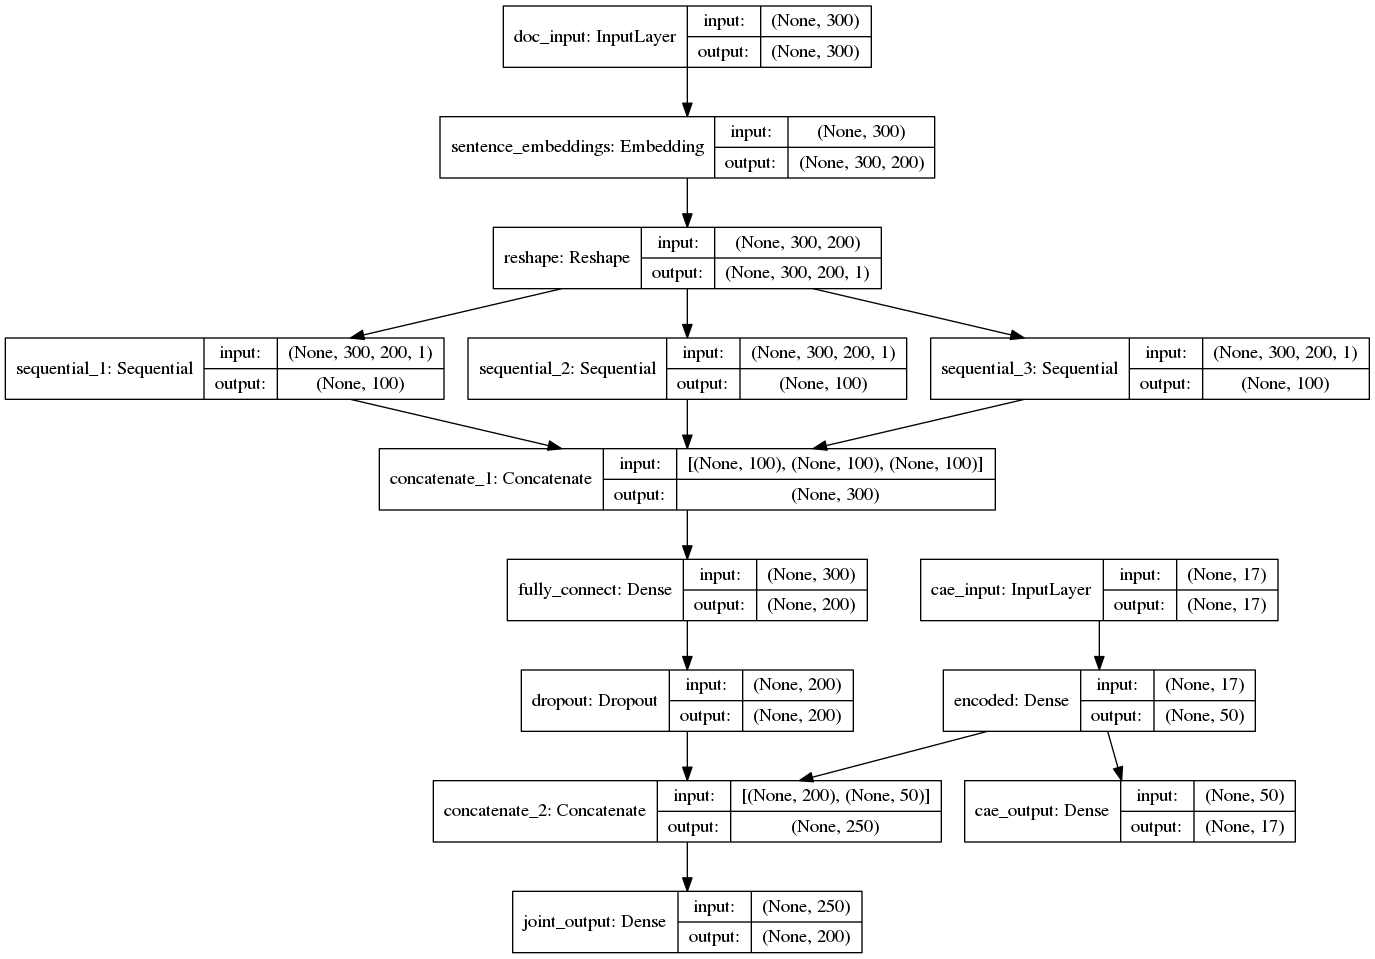
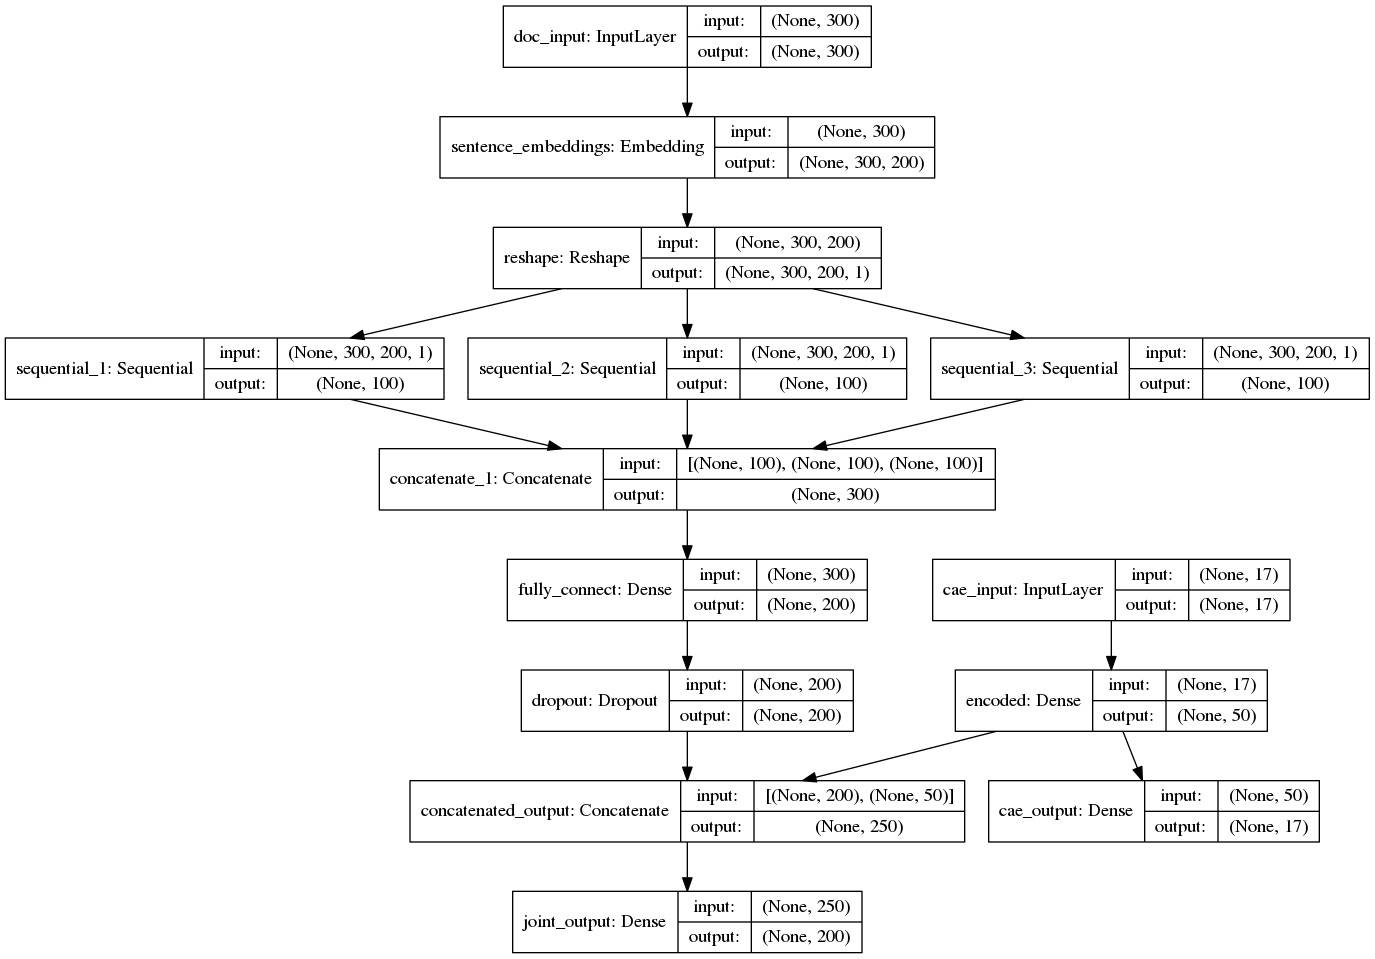
change CAE activation func

diff --git a/models.py b/models.py
@@ -47,9 +47,9 @@ def ConvCAEMF(res_dir,state_log_dir, train_user, train_item, valid_user, test_us
 
     pre_val_eval = 1e10
 
-    cnn_module = CNN_CAE_module(dimension, vocab_size, dropout_rate,
+    cnn_cae_module = CNN_CAE_module(dimension, vocab_size, dropout_rate,
                                 emb_dim, max_len, num_kernel_per_ws, init_W,cae_N_hidden=att_dim, nb_features=num_features)
-    theta = cnn_module.get_projection_layer(CNN_X, attributes_X)
+    theta = cnn_cae_module.get_projection_layer(CNN_X, attributes_X)
     np.random.seed(133)
     U = np.random.uniform(size=(num_user, dimension))
     V = theta
@@ -96,8 +96,8 @@ def ConvCAEMF(res_dir,state_log_dir, train_user, train_item, valid_user, test_us
 
         loss = loss + np.sum(sub_loss)
         seed = np.random.randint(100000)
-        history = cnn_module.train(CNN_X, V, item_weight, seed, att_train=attributes_X)
-        theta = cnn_module.get_projection_layer(CNN_X, attributes_X)
+        history = cnn_cae_module.train(CNN_X, V, item_weight, seed, att_train=attributes_X)
+        theta = cnn_cae_module.get_projection_layer(CNN_X, attributes_X)
         cnn_loss = history.history['loss'][-1]
 
         loss = loss - 0.5 * lambda_v * cnn_loss * num_item
@@ -112,7 +112,7 @@ def ConvCAEMF(res_dir,state_log_dir, train_user, train_item, valid_user, test_us
         converge = abs((loss - PREV_LOSS) / PREV_LOSS)
 
         if (val_eval < pre_val_eval):
-            cnn_module.save_model(res_dir + '/CNN_weights.hdf5')
+            cnn_cae_module.save_model(res_dir + '/CNN_CAE_weights.hdf5')
             np.savetxt(res_dir + '/final-U.dat', U)
             np.savetxt(res_dir + '/final-V.dat', V)
             np.savetxt(res_dir + '/theta.dat', theta)
@@ -132,7 +132,8 @@ def ConvCAEMF(res_dir,state_log_dir, train_user, train_item, valid_user, test_us
         PREV_LOSS = loss
 
     f1.close()
-
+    o = cnn_cae_module.get_intermediate_output(CNN_X, attributes_X)
+    np.savetxt('cnn_cae_tanh.csv', o, fmt='%1.4f',delimiter=',')
 
 def ConvMF(res_dir, state_log_dir, train_user, train_item, valid_user, test_user,
            R, CNN_X, vocab_size, init_W=None, give_item_weight=True,

diff --git a/text_analysis/models.py b/text_analysis/models.py
@@ -107,7 +107,7 @@ class CNN_CAE_module():
         # cae_N_hidden = 50
 
         att_input = Input(shape=(N,), name='cae_input')
-        encoded = Dense(cae_N_hidden, activation='sigmoid', name='encoded')(att_input)
+        encoded = Dense(cae_N_hidden, activation='tanh', name='encoded')(att_input)
         att_output = Dense(N, activation='linear', name='cae_output')(encoded)
 
         # model = Model(input=att_input, output=att_output)
@@ -125,7 +125,7 @@ class CNN_CAE_module():
 
             return mse + contractive
 
-        joint_output = concatenate([dropout, encoded])
+        joint_output = concatenate([dropout, encoded], name='concatenated_output')
 
         '''Projection Layer & Output Layer'''
         # self.model.add_node(Dense(projection_dimension, activation='tanh'),
@@ -248,6 +248,14 @@ class CNN_CAE_module():
             {'doc_input': X_train, 'cae_input': att_train}, batch_size=2048)
         return Y[0]
 
+    def get_intermediate_output(self,X_train, att_train):
+        layer_name = 'concatenated_output'
+        intermediate_layer_model = Model(inputs=self.model.input,
+                                         outputs=self.model.get_layer(layer_name).output)
+        X_train = sequence.pad_sequences(X_train, maxlen=self.max_len)
+        intermediate_output = intermediate_layer_model.predict({'doc_input': X_train, 'cae_input': att_train},
+                                                               )#batch_size=2048)
+        return intermediate_output
 
 class CNN_module():
     '''

diff --git a/README.md b/README.md
@@ -64,3 +64,30 @@ Parameter | Default
 17. `max_iter`: the maximum number of iteration.
 18. `num_kernel_per_ws`: the number of kernels per window size for CNN module.
 
+### Create splits
+>>     python3 rec_eval/lib/split.py -d ${rootpath}/${dataFolder} -s in-matrix-item -v
+### First step: convert citeulike data
+Convert the citeulike data format
+>> python3 process_citeulike.py --data_dir ../data --dataset citeulike-a
+
+### Second step: preprocess data
+>> python run.py --do_preprocess true --raw_rating_data_path /vol2/wanliz/data/Extended_ctr/convmf/citeulike_a_extended/ratings.txt --raw_item_document_data_path /vol2/wanliz/data/Extended_ctr/convmf/citeulike_a_extended/papers.txt -d /vol2/wanliz/data/Extended_ctr/convmf/citeulike_a_extended/inmatrix -a /vol2/wanliz/data/Extended_ctr/convmf/citeulike_a_extended/preprocessed/ --splits_dir /vol2/wanliz/data/Extended_ctr/convmf/citeulike_a_extended/in-matrix-item_folds/fold-1 -o /vol2/wanliz/data/Extended_ctr/convmf/citeulike_a_extended/results/inmatrix/
+
+### Third step: train
+>> python run.py
+-d
+/home/zaher/data/Extended_ctr/convmf/dummy/preprocessed/inmatrix/fold-1
+-a
+/home/zaher/data/Extended_ctr/convmf/dummy/preprocessed/
+-o
+/home/zaher/data/Extended_ctr/convmf/citeulike_a_extended/results/
+-e
+200
+-k
+200
+-p
+/home/zaher/data/cbow_w2v/w2v_200.txt
+-u
+10
+-v
+100
